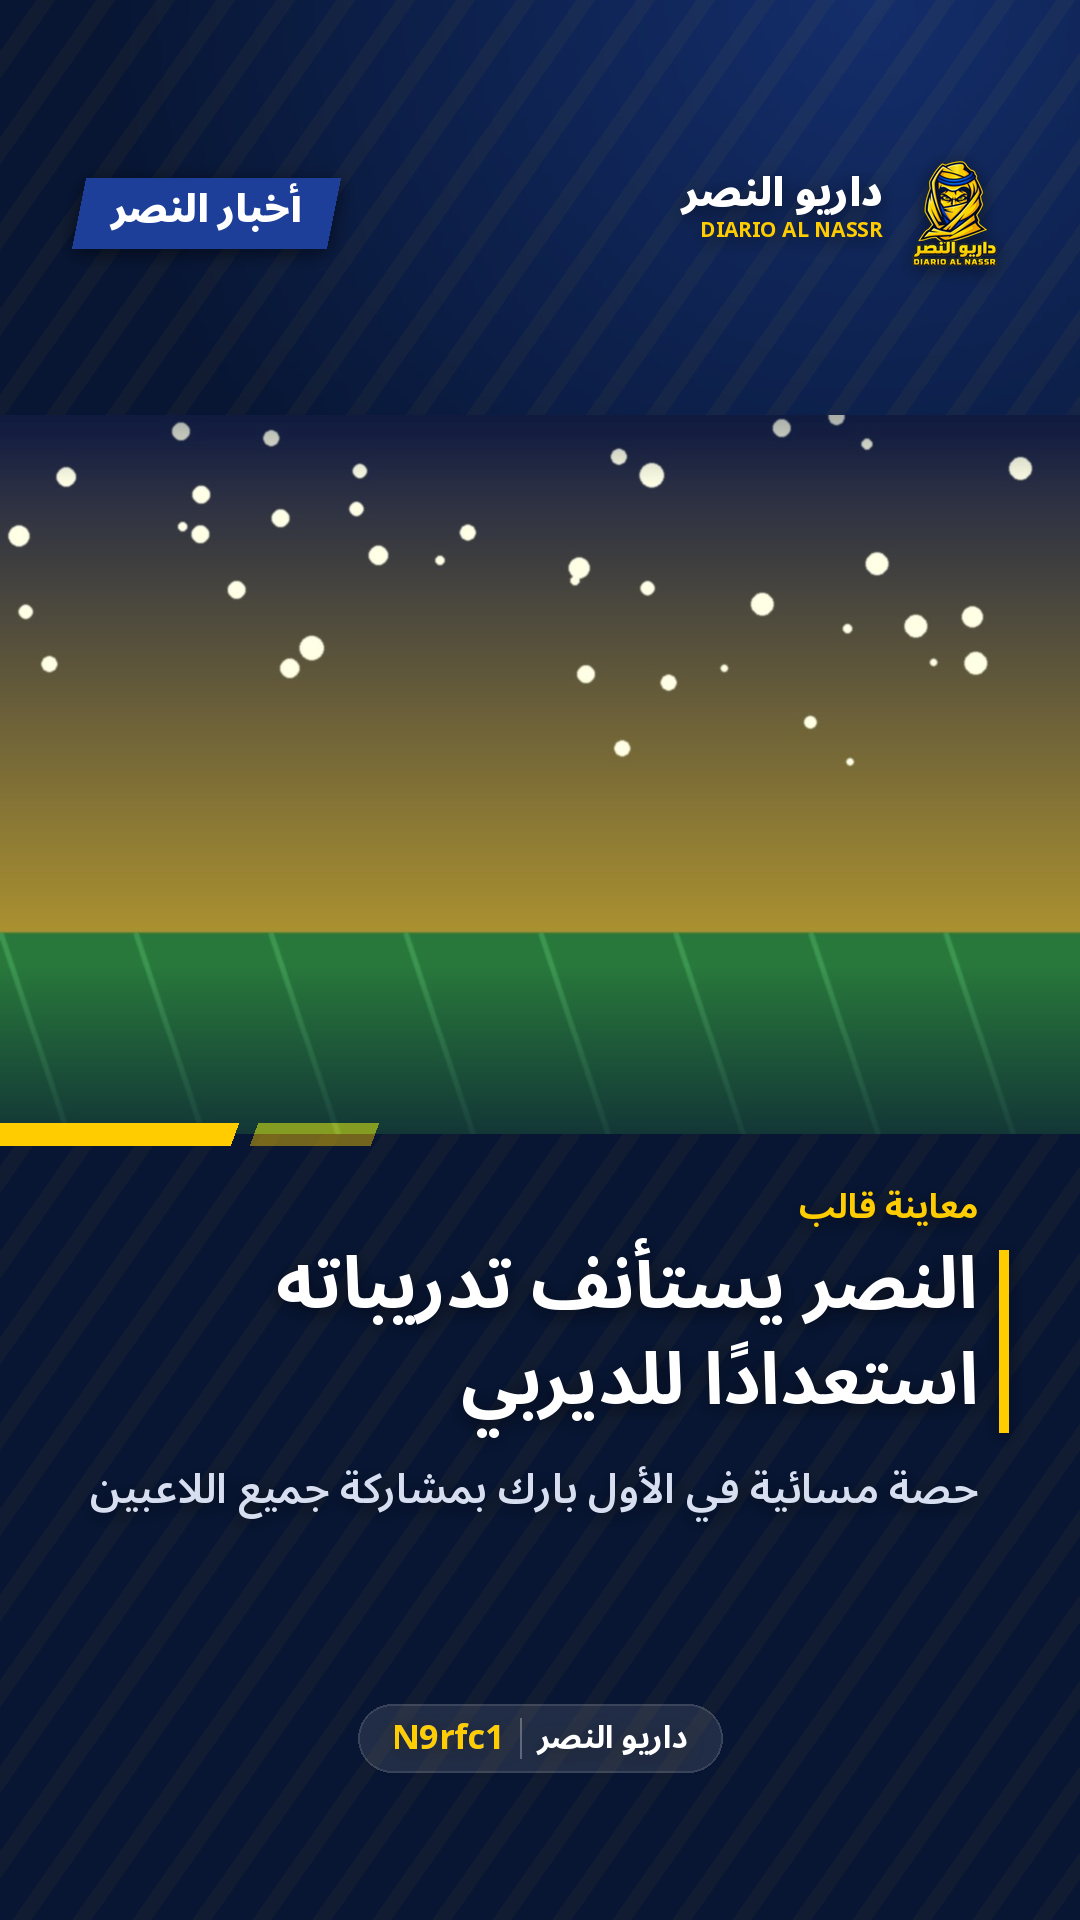
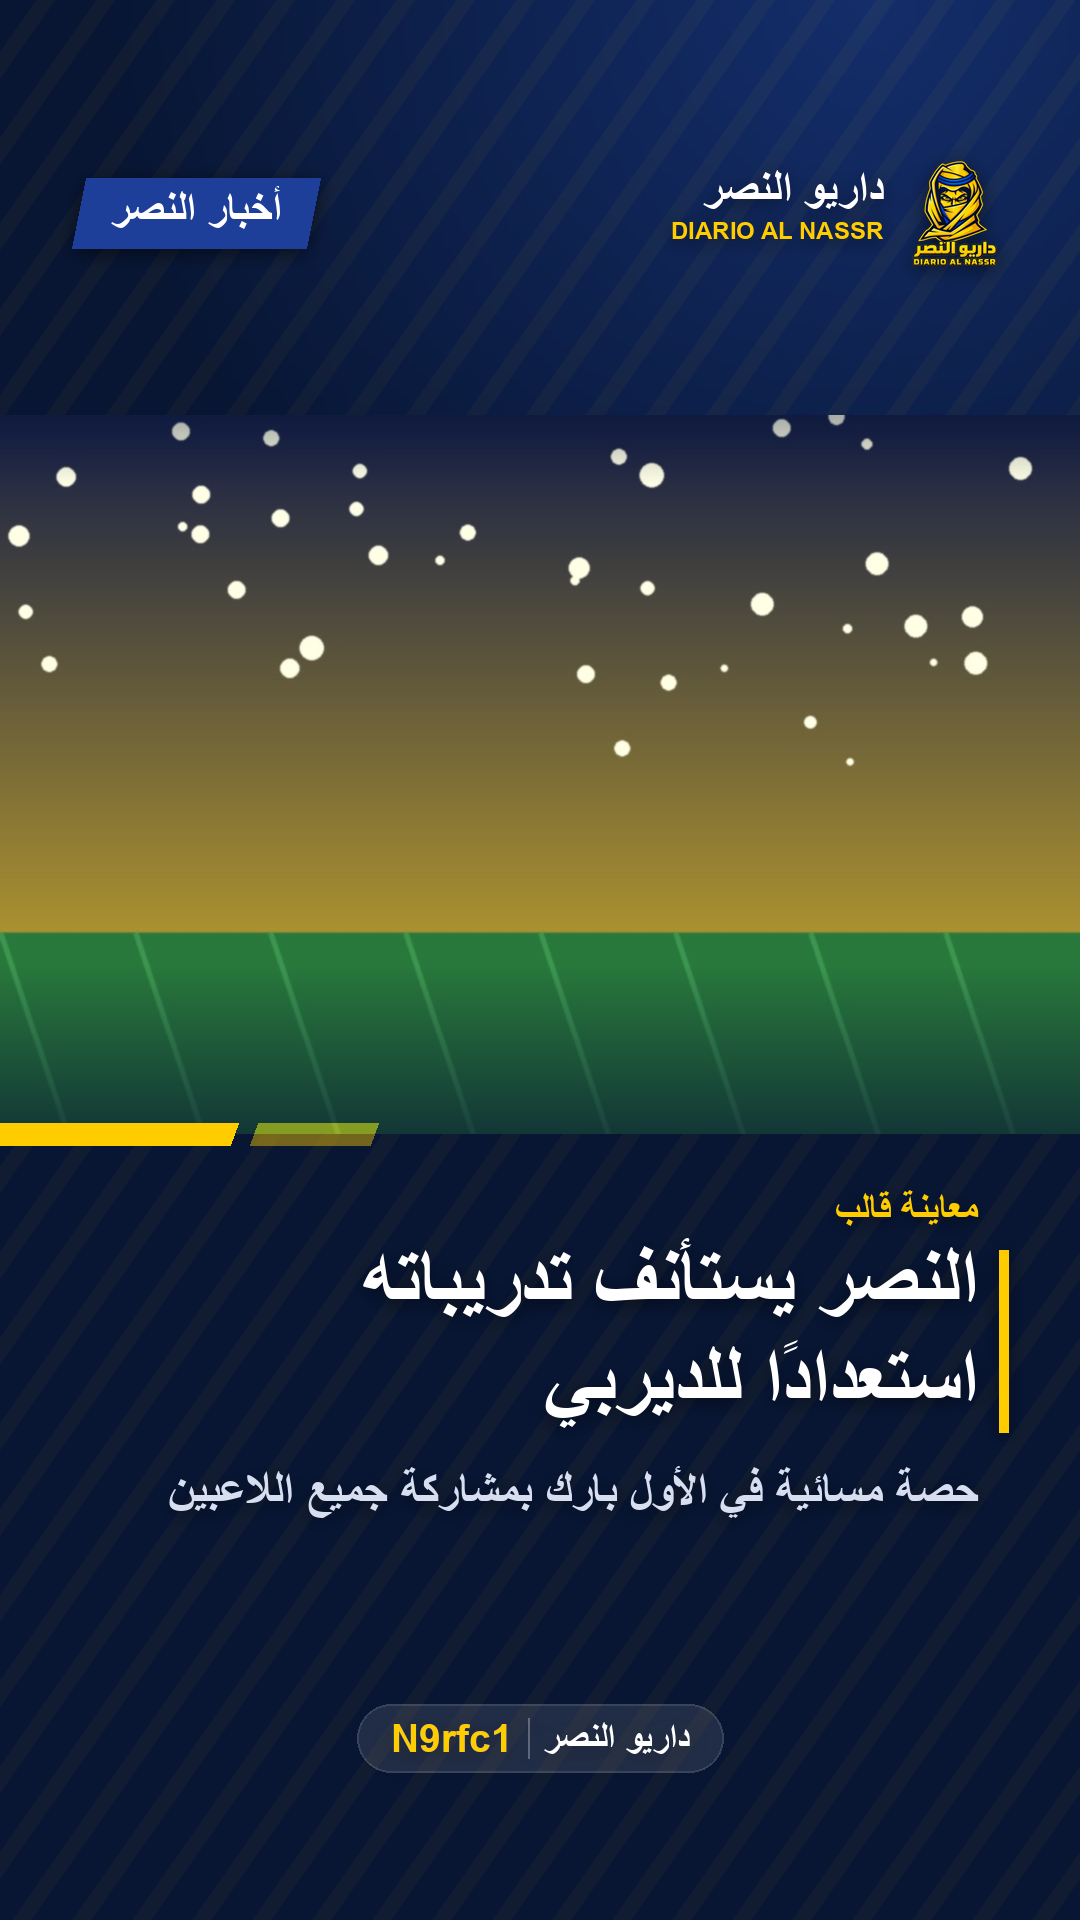
Adopt the owner's Arial Bold (iPhone) as the project font
The uploaded font is byte-identical to the already-approved assets/fonts/arial-bold.ttf.
It now drives every block; drawn size is scaled 15% to match the approved type size.

Claude-Session: https://claude.ai/code/session_01J2CEnGYcTU81SSkbdLCpUn

diff --git a/tests/test_design_v5.py b/tests/test_design_v5.py
@@ -19,12 +19,12 @@ def designer():
     return Designer(c.font_path, c.logo_path, c.snap_handle, c.account_name)
 
 
-def test_default_font_is_approved_noto_family(designer):
+def test_default_font_is_owner_arial_bold(designer):
     c = Config()
-    assert 'NotoSansArabic' in c.font_path.name
-    for path in (designer.bold_path, designer.semibold_path, designer.black_path):
-        verify_font(Path(path))
-    assert len({designer.bold_path, designer.semibold_path, designer.black_path}) == 3
+    assert c.font_path.name == 'arial-bold.ttf'
+    verify_font(c.font_path)
+    # One weight only: every block uses the owner's Arial Bold.
+    assert designer.bold_path == designer.semibold_path == designer.black_path == str(c.font_path)
 
 
 def test_result_extracted_only_with_full_time_marker():

diff --git a/daryo/config.py b/daryo/config.py
@@ -68,7 +68,7 @@ class Config:
 
     # المسارات
     data_dir: Path = field(default_factory=lambda: Path(_env("DATA_DIR", str(ROOT / "data"))))
-    font_path: Path = field(default_factory=lambda: Path(_env("FONT_PATH", str(ROOT / "assets" / "fonts" / "NotoSansArabic-Bold.ttf"))))
+    font_path: Path = field(default_factory=lambda: Path(_env("FONT_PATH", str(ROOT / "assets" / "fonts" / "arial-bold.ttf"))))
     logo_path: Path = field(default_factory=lambda: Path(_env("LOGO_PATH", str(ROOT / "assets" / "logo.png"))))
 
     @property

diff --git a/daryo/design.py b/daryo/design.py
@@ -61,6 +61,12 @@ class Designer(Renderer):
         self._bg_cache: dict[int, Image.Image] = {}
         self._logo_cache: dict = {}
 
+    # Arial's Arabic glyphs sit visibly smaller on the em than Noto / Plex:
+    # scale its drawn size so the type reads the same as the approved samples.
+    def font(self, size):
+        k = 1.15 if "arial" in Path(self.font_path).name.lower() else 1.0
+        return super().font(int(round(size * k)))
+
     @property
     def text_bottom(self):
         return self.foot - 42

diff --git a/README.md b/README.md
@@ -94,7 +94,7 @@ docker compose logs -f
 
 ## ضمانات الجودة
 
-- الخط الافتراضي Noto Sans Arabic (Bold للعناوين وSemiBold للتفاصيل وBlack للأرقام)، وهو أقرب خط مجاني لخط الآيفون SF Arabic الذي لا تسمح رخصة أبل باستخدامه في البوت. يمكن اختيار IBM Plex أو Arial عبر `FONT_PATH`.
+- الخط المعتمد للمشروع: Arial Bold بنسخة الآيفون (`assets/fonts/arial-bold.ttf`) اعتمده المالك 2026-11-17، لكل النصوص. ملفات Noto وIBM Plex تبقى بديلة عبر `FONT_PATH`.
 - البوت يرسل مقاس سناب فقط. `POST_FORMAT=1` يضيف نسخة 4:5 (1080×1350) عند الحاجة. جميع ملفات الخطوط تفحص ببصماتها المعتمدة.
 - تشكيل عربي عبر Raqm، وحماية ترتيب نطاقات الأرقام والأوقات داخل النص العربي.
 - لا تُحذف أسطر النص لتجاوز فحص الجودة؛ المحتوى الطويل يُقسّم، والمحتوى الذي لا يتسع يوقف التصميم مع تنبيه.

diff --git a/DESIGN.md b/DESIGN.md
@@ -2,6 +2,8 @@
 
 ## الإصدار الخامس (2026-11-15)
 
+- الخط: Arial Bold بنسخة الآيفون لكل النصوص (اعتمده المالك 2026-11-17)، مع تكبير الرسم 15% لأن حروف Arial العربية أصغر على نفس المقاس.
+
 - خلفية كحلية بتوهج أزرق وخطوط صفراء مائلة خفيفة، وكل النصوص بيضاء وصفراء مع ظل ناعم.
 - شريط علوي ثابت: الشعار واسم الحساب يمين، ووسم النوع يسار بلون حسب النوع: عاجل أحمر، رسمي أخضر (انتقال رسمي)، نهاية المباراة والتذاكر أصفر، والباقي أزرق. لا تُضاف وسوم «شائعة» أو «غير رسمي».
 - الصورة كاملة دون قص: بعرض التصميم إن اتسعت، وإلا في المنتصف فوق نسخة مموهة منها. أسفلها تدرج كحلي وخطوط صفراء مائلة، والعنوان بجانبه خط أصفر.
